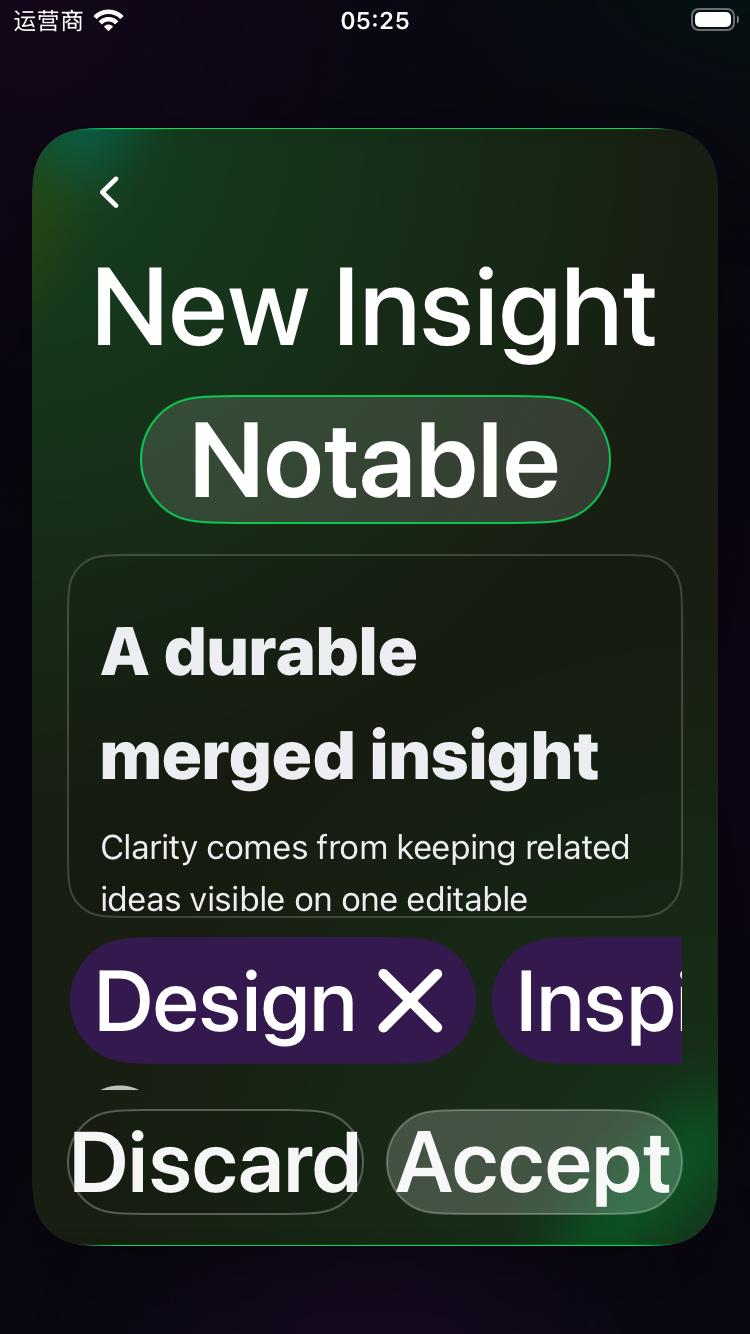
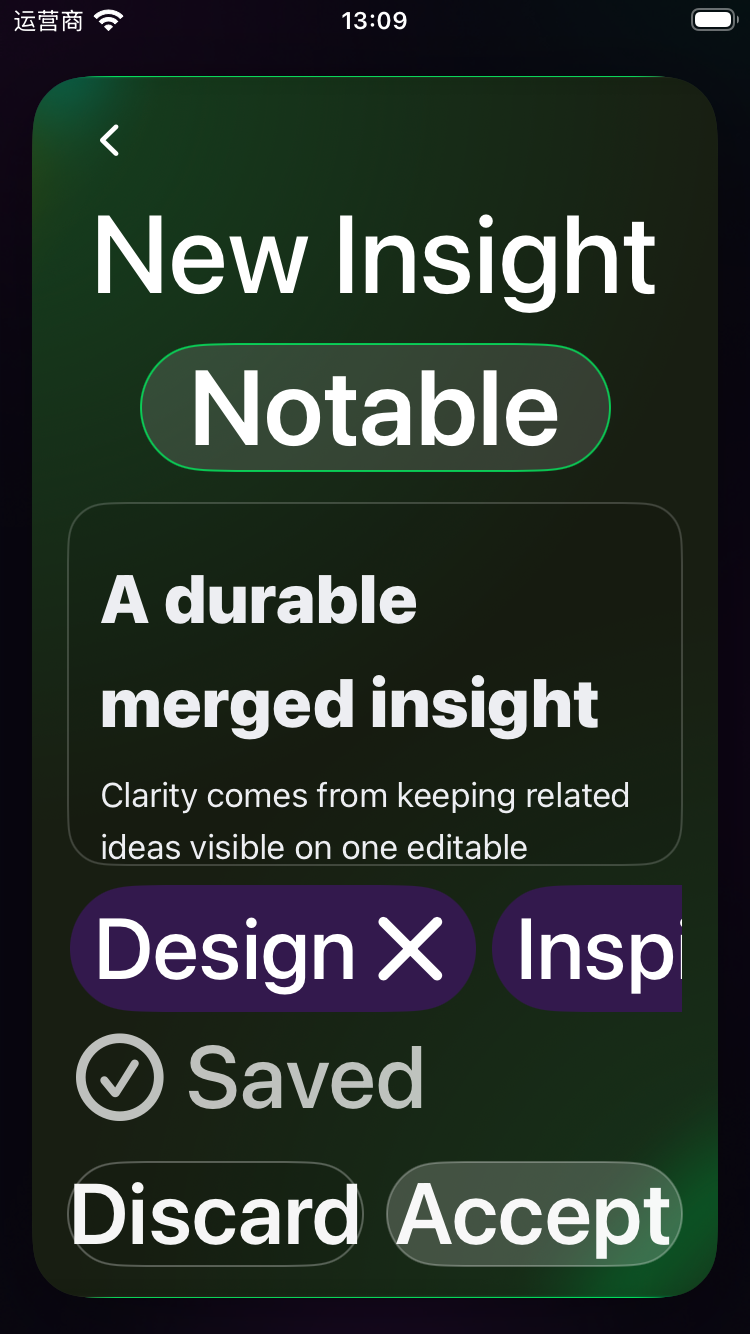
fix(ios): repair merge preview accessibility layout

diff --git a/ArcNoteUITests/ArcNoteUITests.swift b/ArcNoteUITests/ArcNoteUITests.swift
@@ -1450,17 +1450,43 @@ final class ArcNoteUITests: XCTestCase {
 
         XCTAssertTrue(waitFor("screen.merge.artifact").exists)
         captureMergeVisual("artifact-notable-long-dynamic-type")
-        for action in [
+        let window = app.windows.firstMatch
+        XCTAssertTrue(window.waitForExistence(timeout: 3))
+        let actions = [
             waitForButton("merge.artifact.discard"),
             waitForButton("merge.artifact.accept"),
-        ] {
+        ]
+        for action in actions {
             XCTAssertTrue(action.isHittable)
             XCTAssertGreaterThanOrEqual(action.frame.width, 44)
             XCTAssertGreaterThanOrEqual(action.frame.height, 44)
+            XCTAssertGreaterThanOrEqual(action.frame.minY, window.frame.minY)
+            XCTAssertLessThanOrEqual(action.frame.maxY, window.frame.maxY)
         }
         let editor = waitFor("merge.artifact.editor")
         XCTAssertTrue(editor.isHittable)
         let tagViewport = waitFor("merge.artifact.tags")
+        let syncState = waitFor("merge.artifact.sync-state")
+        let actionTop = actions.map(\.frame.minY).min() ?? window.frame.maxY
+        XCTAssertLessThanOrEqual(
+            editor.frame.maxY,
+            tagViewport.frame.minY - 8,
+            "AX editor and tag row must remain separate; "
+                + "editor=\(editor.frame), tags=\(tagViewport.frame)"
+        )
+        XCTAssertLessThanOrEqual(
+            tagViewport.frame.maxY,
+            syncState.frame.minY - 4,
+            "AX tag and sync rows must both render as complete rows; "
+                + "tags=\(tagViewport.frame), sync=\(syncState.frame)"
+        )
+        XCTAssertLessThanOrEqual(
+            syncState.frame.maxY,
+            actionTop - 8,
+            "AX sync state must be fully visible above the pinned actions; "
+                + "sync=\(syncState.frame), actionTop=\(actionTop)"
+        )
+        XCTAssertGreaterThanOrEqual(syncState.frame.minY, window.frame.minY)
         let addTag = waitForButton("merge.artifact.add-tag")
         if !addTag.isHittable || addTag.frame.maxX > tagViewport.frame.maxX {
             tagViewport.swipeLeft()

diff --git a/ArcNote/CoreFlow/MergeArtifactEditorSurface.swift b/ArcNote/CoreFlow/MergeArtifactEditorSurface.swift
@@ -3,6 +3,7 @@ import SwiftUI
 
 @MainActor
 struct MergeArtifactEditorSurface: View {
+    @Environment(\.dynamicTypeSize) private var dynamicTypeSize
     @ObservedObject var controller: MergeArtifactDraftController
     let onBack: () -> Void
 
@@ -38,7 +39,13 @@ struct MergeArtifactEditorSurface: View {
             let layoutViewportHeight = controller.bodyModel.isBodyFocused
                 ? restingViewportHeight
                 : viewportHeight
-            let surfaceHeight = max(0, layoutViewportHeight - 52)
+            let surfaceVerticalInset: CGFloat = dynamicTypeSize.isAccessibilitySize
+                ? 0
+                : 52
+            let surfaceHeight = max(
+                0,
+                layoutViewportHeight - surfaceVerticalInset
+            )
             let actionAreaHeight: CGFloat = 78
             VStack(spacing: 0) {
                 ScrollViewReader { proxy in

diff --git a/docs/qa/ios-merge-wysiwyg-preview.md b/docs/qa/ios-merge-wysiwyg-preview.md
@@ -181,21 +181,80 @@ The final UI batches prove full `Discard` and `Accept` labels, 52-point mutation
 targets, 44-point rail rows, keyboard dismissal, and no accessibility-only
 symbol crowding on the SE.
 
+### iPhone SE 3 accessibility-layout repair
+
+The previous AX5 capture exposed a real compact-height defect rather than an
+image crop: the `Saved` row ended at `y = 591`, while the mutation actions
+started at `y = 554.5`. The rows overlapped by 36.5 points, and the required
+8-point separation made the total height deficit 44.5 points. The frozen RED
+bundle is
+`/private/tmp/chorai-se3-ax-layout-red-20260819.xcresult`.
+
+The surface now consumes its decorative 52-point vertical inset at
+accessibility Dynamic Type instead of compressing text or controls. Default
+Dynamic Type keeps the approved inset. The repaired AX5 image preserves the
+large type and shows complete body, tag, `Saved`, `Discard`, and `Accept` rows:
+
+[Open the repaired SE 3 AX5 original](assets/ios-merge-wysiwyg-preview/iphonese3-artifact-notable-long-dynamic-type.png)
+
+Fresh post-fix evidence:
+
+- exact AX5 layout test: 1/1 passed in
+  `/private/tmp/chorai-se3-ax-layout-green-attempt1-20260819.xcresult`;
+- SE 3 compact regression batch: 5/5 passed in
+  `/private/tmp/chorai-se3-axfix-regression-20260819.xcresult`;
+- Pro rate/AX comparison batch: 2/2 passed in
+  `/private/tmp/chorai-pro-rate-and-ax-20260819.xcresult`.
+
+The SE batch covers AX5 row separation, in-window 52-point actions, default
+0/3/10-tag overflow behavior, in-place editing and reopen, delayed Accept
+locking, and rotation.
+
+Post-repair full gates also passed: CoreFlow 748/748, BlockNoteEditor 45/45,
+the ArcNote Debug build at
+`/private/tmp/chorai-se3-axfix-final-debug-20260819`, and the ArcNote
+Debug-Production build at
+`/private/tmp/chorai-se3-axfix-final-production-20260819`.
+
+## Rate material matrix
+
+The product does not render a numeric rate chip. It maps the canonical rate to
+one shared level material. The following are fresh iPhone 17 Pro originals
+captured with the same card content and viewport so the material itself is the
+only intentional visual difference.
+
+| Canonical rate | Applied range | Visible level | Accent | Original screenshot |
+| ---: | ---: | --- | --- | --- |
+| 3 | 3...8 | Notable | green `#00FF66` | [PNG](assets/ios-merge-wysiwyg-preview/iphone17pro-card-notable.png) |
+| 9 | 9...26 | Valuable | blue `#0371FF` | [PNG](assets/ios-merge-wysiwyg-preview/iphone17pro-card-valuable.png) |
+| 27 | 27...80 | Significant | purple `#9627D2` | [PNG](assets/ios-merge-wysiwyg-preview/iphone17pro-card-significant.png) |
+| 81 | 81...242 | Exceptional | amber `#D97800` | [PNG](assets/ios-merge-wysiwyg-preview/iphone17pro-card-exceptional.png) |
+| 243 | 243 and above | Definitive | orange-red `#FF5E00` | [PNG](assets/ios-merge-wysiwyg-preview/iphone17pro-card-definitive.png) |
+
+[Open the labeled rate 3-to-243 contact sheet](assets/ios-merge-wysiwyg-preview/contact-sheet-card-rates-3-243.png)
+
+The rate matrix was regenerated from the passing
+`testCardLevelVisualMatrixCapturesSixTiers` UI fixture. It also generated the
+rate-1 Basic control image; the table above starts at rate 3 to match this
+acceptance request and ends at the open-ended Definitive tier.
+
 ## Visual evidence
 
-The durable evidence directory contains 23 original-resolution PNGs and three
+The durable evidence directory contains 23 original-resolution PNGs and four
 contact sheets:
 
 `docs/qa/assets/ios-merge-wysiwyg-preview/`
 
 - `contact-sheet-card-tiers.png` — Basic, Notable, Valuable, Significant,
   Exceptional, and Definitive.
+- `contact-sheet-card-rates-3-243.png` — the requested rate 3, 9, 27, 81, and
+  243 comparison, labeled with the exact canonical value and level.
 - `contact-sheet-artifact-states.png` — focused/unfocused Notable, 0/3/10
   tags, long body, Reduce Transparency, and Increased Contrast.
 - `contact-sheet-rail-and-devices.png` — Pro/SE rail states, Dynamic Type,
   Preview suppression, and Complete restoration.
 
-All originals and all three sheets were opened and inspected against
+All originals and all four sheets were opened and inspected against
 `2026-08-17-ios-merge-wysiwyg-preview-approved-v2.png`. Final verdict:
 
 - P0: none;
